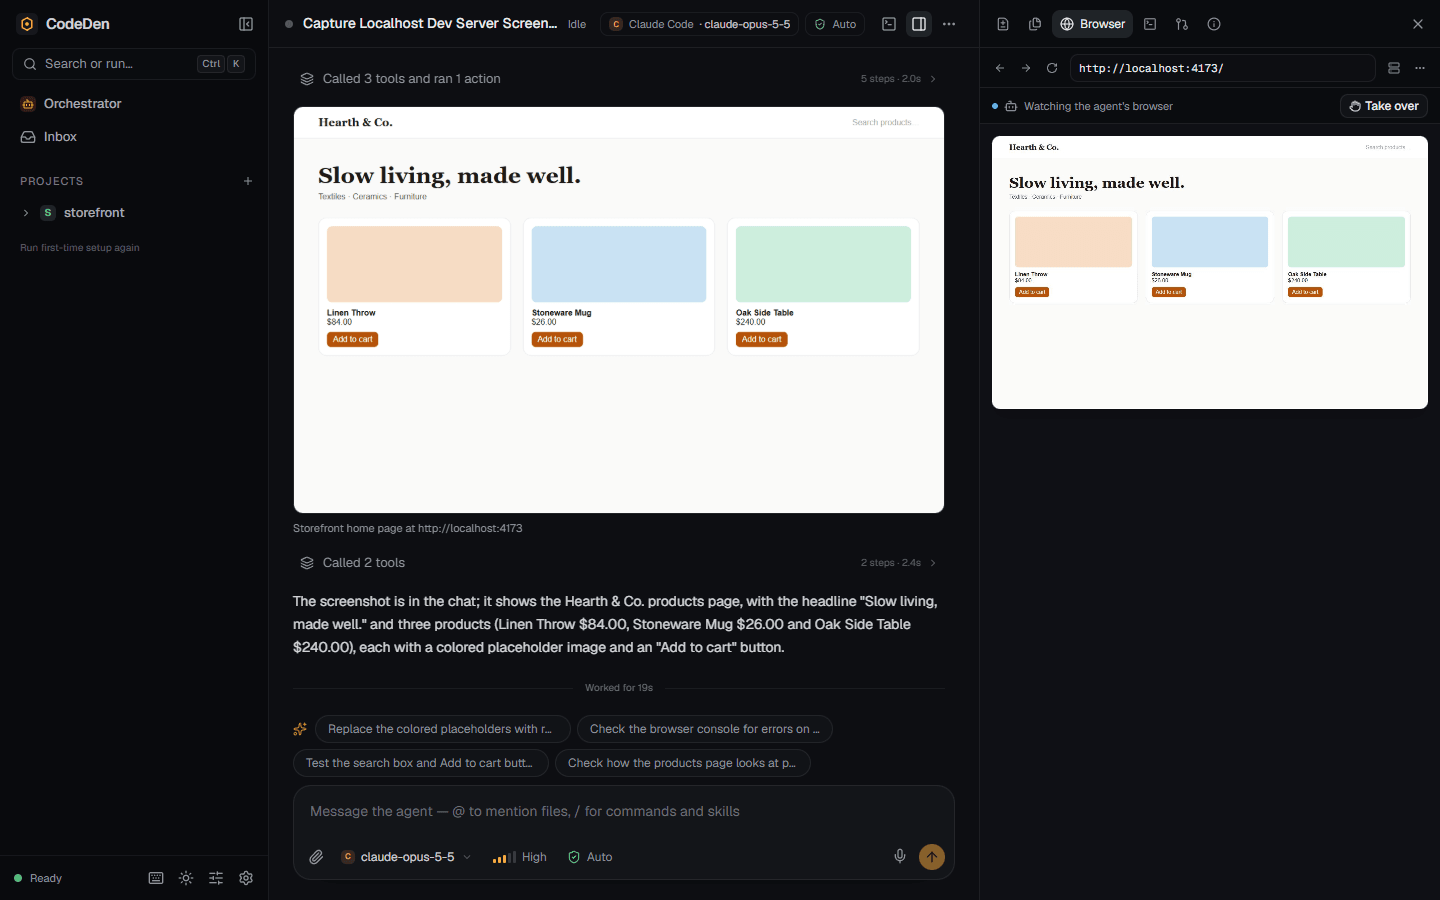
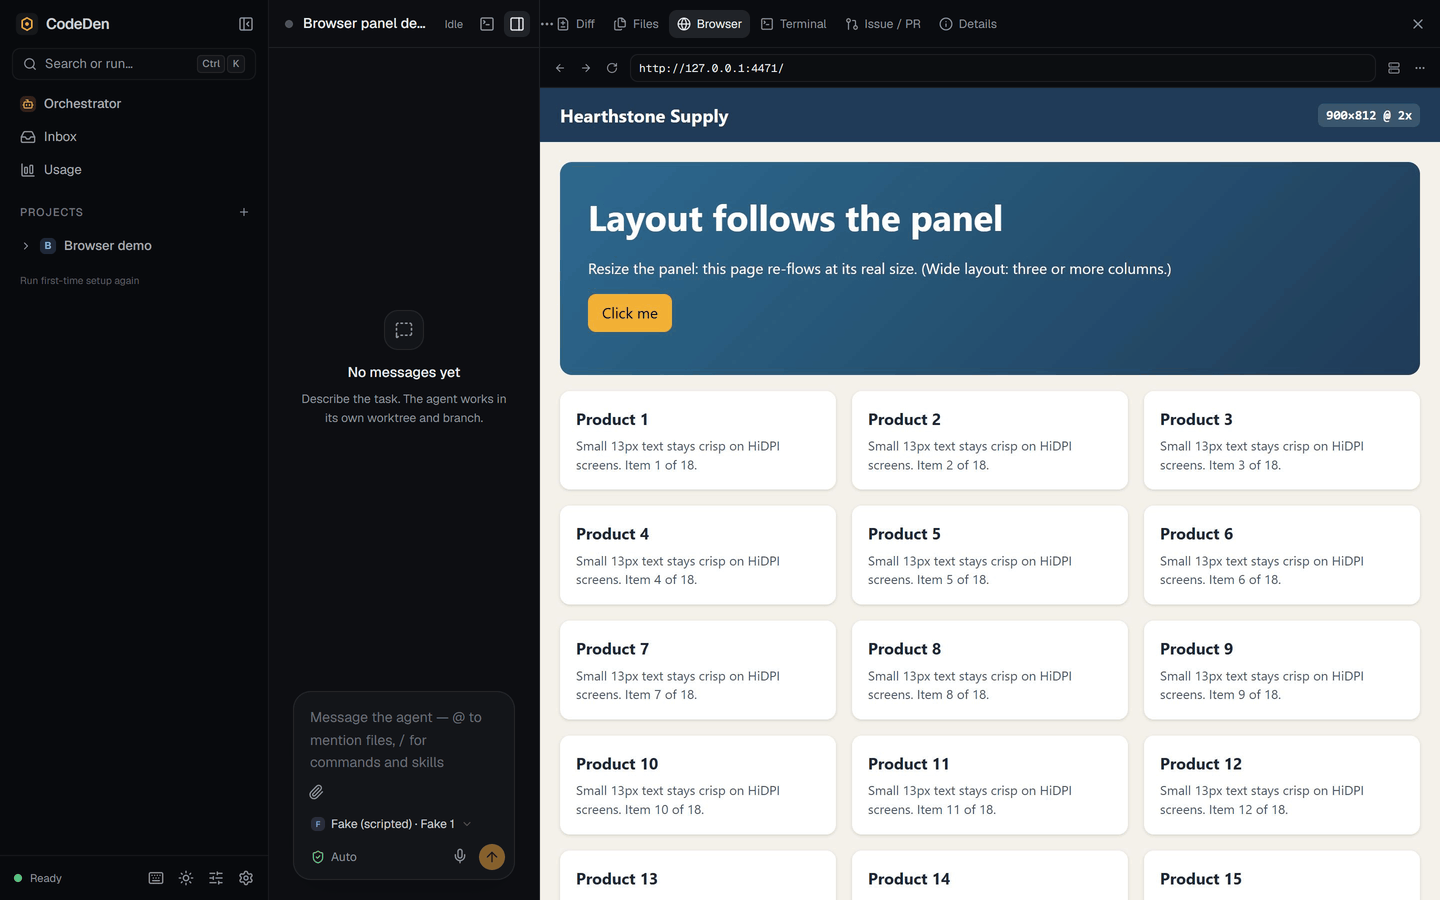
docs: the browser panel follows the panel size; no take-over

diff --git a/CHANGELOG.md b/CHANGELOG.md
@@ -9,10 +9,19 @@ All notable changes to CodeDen are documented here. The format follows [Keep a C
 - **Refresh models.** A refresh button at the bottom of the model picker's provider rail asks the shown provider for its models again (on Favourites, every provider), for when a new model is out and the list hasn't caught up yet.
 - **Claude Fable 5.2 is priced** in usage reports ($8 / $40 per million input / output tokens), and so is the `fable` alias.
 
+### Changed
+
+- **The browser panel is a real browser surface.** The page now fills the panel edge to edge and is laid out at the panel's own size, instead of a fixed 1280×800 page shrunk into a small card. It re-flows as you resize the panel, and it's sharp on HiDPI screens (rendered at your screen's pixel ratio, up to 2×). Pick a fixed device size under **⋯ › Viewport** if you want one; **Fit to panel** is the default.
+- **No more "Take over".** Clicks, typing and scrolling always go straight to the page, even while an agent is using it. An **Agent is acting** chip in the toolbar shows when an agent drives the browser.
+- **Several viewers share one page size.** With the panel open on your desktop and your phone, the one you used or focused last decides the size, and the others fit the page inside their panel. Opening the panel on another device no longer changes the page under you.
+- **Agent screenshots use the current page size,** in CSS pixels, so a HiDPI screen doesn't double the image an agent gets back.
+
 ### Fixed
 
 - **New Claude models show up without restarting everything.** A model release changes Claude Code's model list even when nothing on your machine changes, and CodeDen kept the list it read when its background runner started; the runner keeps going when you restart CodeDen, so the picker could show an old Fable for days. CodeDen now asks again when the app reconnects (if the list is more than 10 minutes old), whenever a session starts, and when you refresh. It also finds `claude` and `codex` on your PATH each time instead of reusing the location from when the runner started, so moving to another install is picked up too.
 - **Sessions on a full model id get their effort control back.** A session on, say, `claude-opus-5-5` (what Opus runs today) was shown as "isn't in the provider's list any more" with no effort levels. The picker now shows it as **Opus 5.5** with Opus's effort levels, and an id no entry covers still gets the default model's levels.
+- **A second viewer of a still page now sees it straight away.** It used to wait for the page to change before its first frame arrived.
+- **Scrolling in the browser panel is natural.** It now moves the page at the speed of your gesture, also for mice that scroll by lines.
 
 ## [0.4.4] - 2026-11-09
 

diff --git a/docs/workbench.md b/docs/workbench.md
@@ -72,7 +72,8 @@ Nothing is lost unless you choose **Remove anyway**: the branch and the turn che
 
 The runner launches one Chromium (your installed **Edge** or **Chrome**; Edge first on Windows, Chrome first elsewhere) and gives every session its own browser context, so cookies, storage and tabs never cross sessions.
 
-- **You watch** through a live screencast in the Browser tab, and can **Take over** at any time with your mouse and keyboard. Tabs, back, forward, reload and the address bar work as you'd expect.
+- **You see the page** live in the Browser tab, edge to edge. The page is laid out at the panel's own size and pixel density, so it is sharp and re-flows as you resize the panel (pick a fixed device size under **⋯ > Viewport** instead if you want one). Clicks, typing and scrolling always go straight to the page, even while an agent is using it; an **Agent is acting** chip shows when it is. Tabs, back, forward, reload and the address bar work as you'd expect.
+- **Several viewers** (say, your desktop and your phone) share one page size: the one you used or focused last decides it, and the others fit the page inside their panel.
 - **Agents drive the same tabs** with CodeDen's browser tools:
 
 | Tool | Does |
@@ -90,7 +91,7 @@ The runner launches one Chromium (your installed **Edge** or **Chrome**; Edge fi
 - Screenshots can be shared to the chat (`share_to_chat`) or attached to a PR or issue as [evidence](github.md#evidence).
 - `chrome://`, `edge://`, `devtools://` and `javascript:` URLs are refused.
 
-![The browser panel watching the agent's browser](images/browser-panel.png)
+![The browser panel filling the right side, with the page laid out at the panel's size](images/browser-panel.png)
 
 ## Command palette and shortcuts
 

diff --git a/README.md b/README.md
@@ -108,10 +108,10 @@ Everything an agent touches, next to the chat:
 - **Diffs and checkpoints.** Every turn is snapshotted into a hidden git ref, so you get exact per-turn and whole-session diffs and can restore files to any earlier turn. Commit and push from the git bar.
 - **Files.** A file tree and a syntax-highlighted viewer for the session's worktree.
 - **Terminal.** Real PTY terminals owned by the runner, so they survive server restarts.
-- **Browser.** A Chromium the agents drive (navigate, snapshot, click, type, screenshot, console and network logs), streamed into the panel. You can take over at any time.
+- **Browser.** A Chromium the agents drive (navigate, snapshot, click, type, screenshot, console and network logs), streamed edge to edge into the panel at the panel's own size. Click, type and scroll in it at any time.
 - **Subagents** open as child threads, and the composer queues or steers while a turn runs.
 
-![The browser panel watching the agent's browser](docs/images/browser-panel.png)
+![The browser panel filling the right side, with the page laid out at the panel's size](docs/images/browser-panel.png)
 
 [Workbench guide](docs/workbench.md).
 
